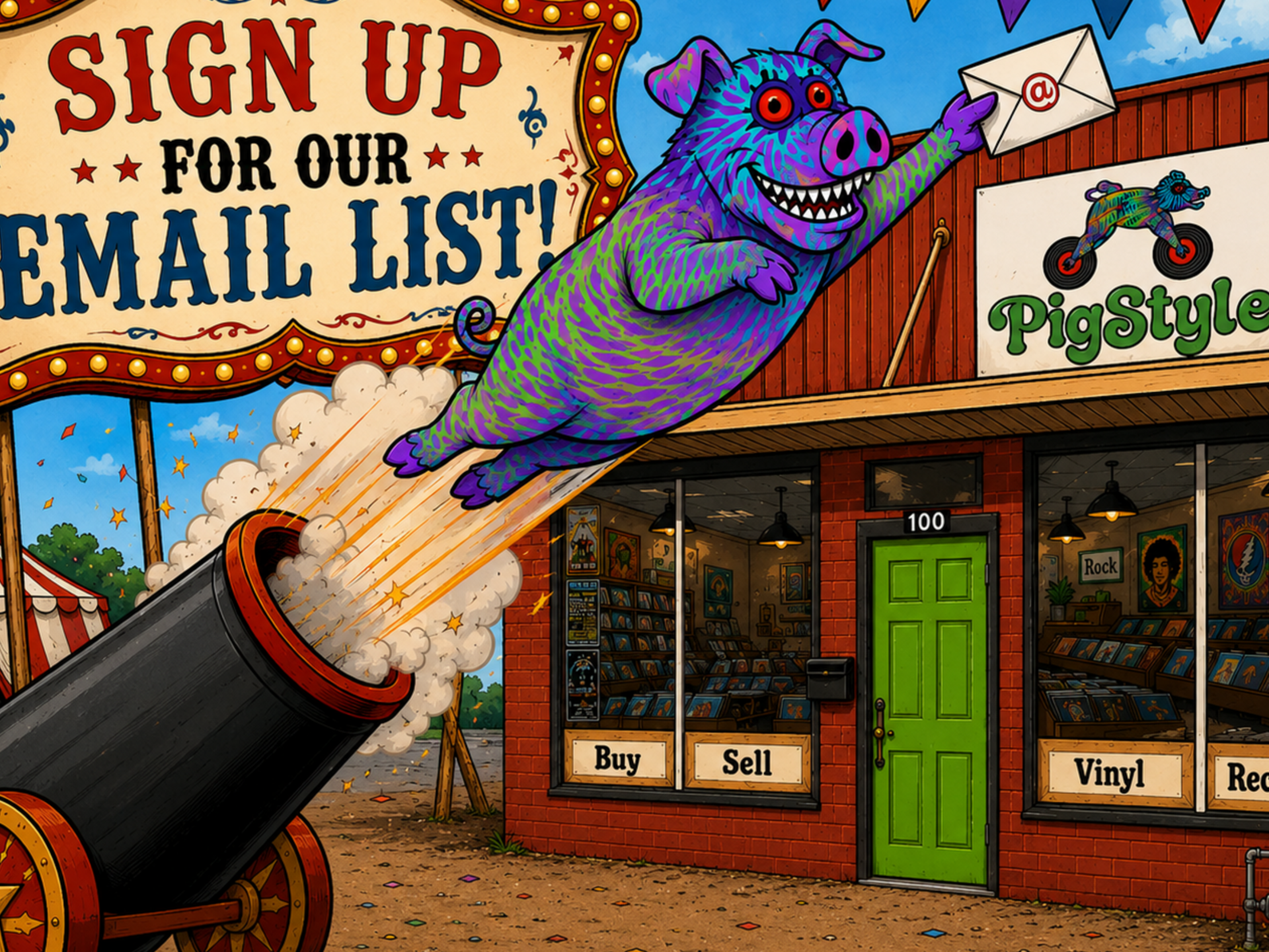
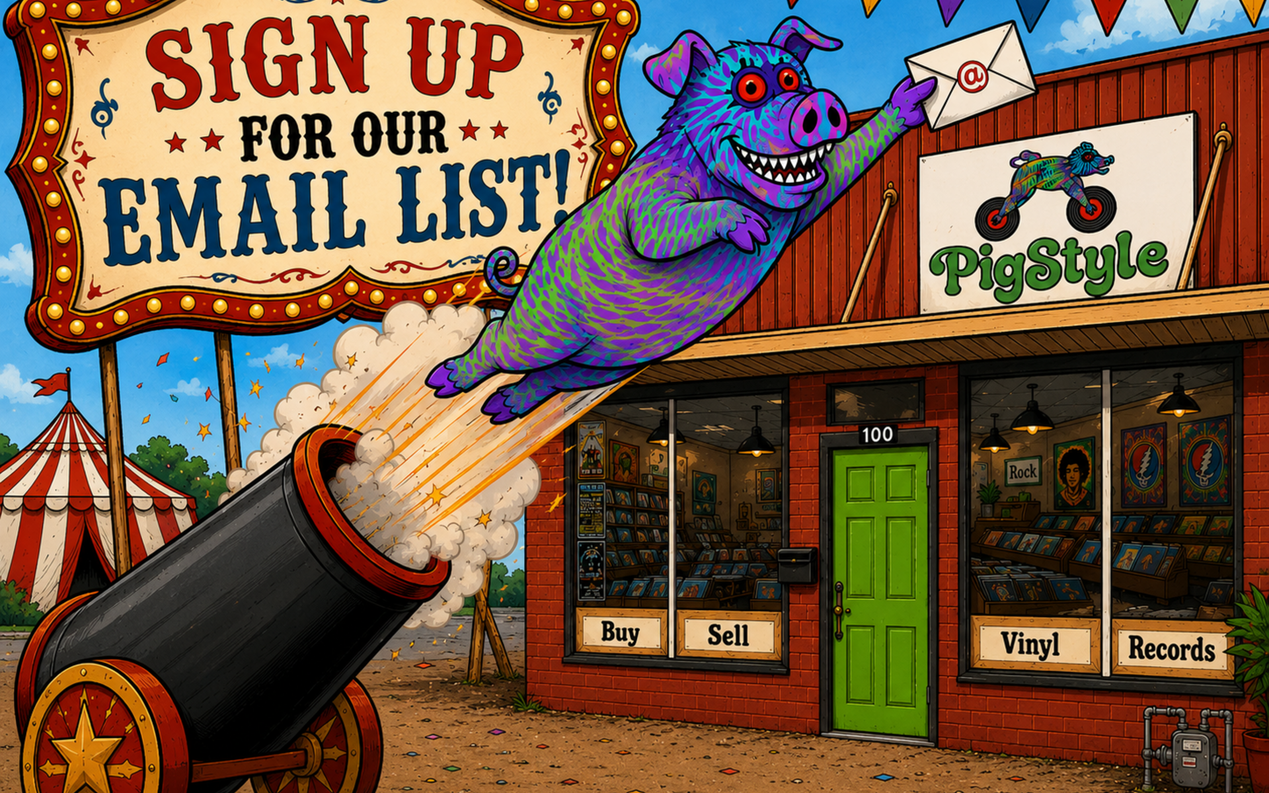
cleaned up all failed attempts at kiosk browser

diff --git a/website/engagement/engagement.html b/website/engagement/engagement.html
@@ -3,7 +3,6 @@
 <head>
     <meta charset="UTF-8" />
     <meta name="viewport" content="width=device-width, initial-scale=1.0, maximum-scale=1.0, user-scalable=yes" />
-    <link rel="manifest" href="/manifest.json" />
     <meta name="mobile-web-app-capable" content="yes" />
     <title>PigStyle Music | Connect With Us</title>
     <link rel="stylesheet" href="https://cdnjs.cloudflare.com/ajax/libs/font-awesome/6.4.0/css/all.min.css" />
@@ -85,7 +84,7 @@
             bottom: 0;
             left: 0;
             background-image: url('/images/pig_leaving_a_review.png');
-            background-size: cover;
+            background-size: contain;
             background-position: center center;
             background-repeat: no-repeat;
             z-index: 0;
@@ -100,7 +99,7 @@
             bottom: 0;
             left: 0;
             background-image: url('/images/pig_shooting_from_cannon.png');
-            background-size: cover;
+            background-size: contain;
             background-position: center center;
             background-repeat: no-repeat;
             z-index: 0;
@@ -689,17 +688,6 @@
     </div>
 
     <script>
-        // ===== SERVICE WORKER REGISTRATION =====
-        if ('serviceWorker' in navigator) {
-            navigator.serviceWorker.register('/sw.js').then(function(reg) {
-                console.log('✅ Service worker registered:', reg.scope);
-            }).catch(function(err) {
-                console.error('❌ Service worker failed:', err);
-            });
-        } else {
-            console.log('ℹ Service worker not supported in this browser');
-        }
-
         (function() {
             'use strict';
 
